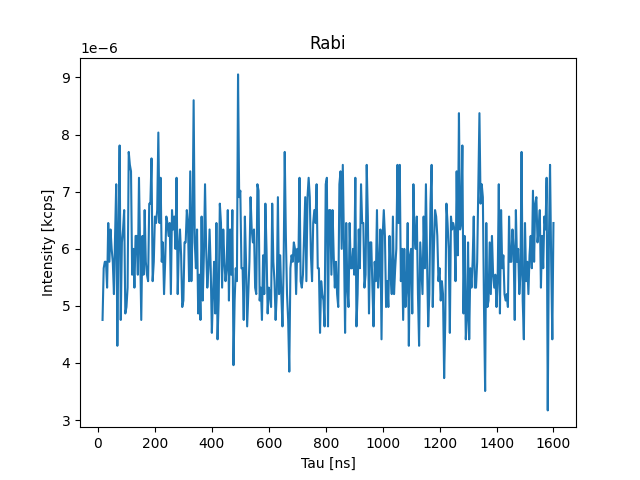
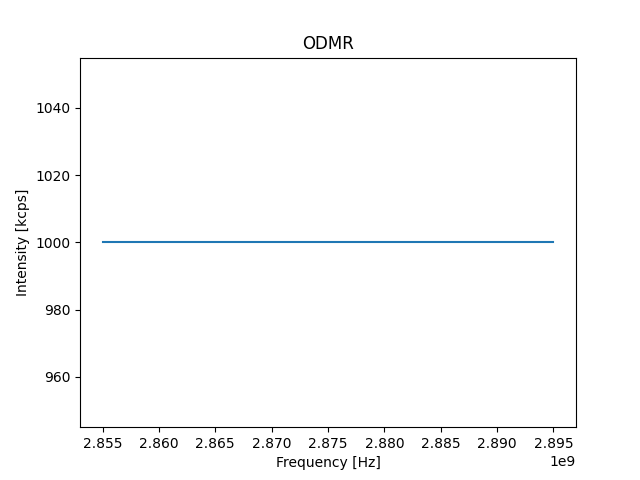
Small changes on the config and qm code

diff --git a/src/qudi/hardware/OPX/05_cw_odmr.py b/src/qudi/hardware/OPX/05_cw_odmr.py
@@ -27,7 +27,7 @@ from configuration import *
 ###################
 
 # Frequency vector
-f_vec = np.arange(80 * u.MHz, 130 * u.MHz, 1 * u.MHz)
+f_vec = np.arange(80 * u.MHz, 140 * u.MHz, 1 * u.MHz)
 n_avg = 200_000_000  # number of averages
 readout_len = long_meas_len_1  # Readout duration for this experiment
 
@@ -49,39 +49,48 @@ with program() as cw_odmr:
             # Play the mw pulse...
             play("cw" * amp(1), "NV", duration=readout_len * u.ns)
             # ... and the laser pulse simultaneously (the laser pulse is delayed by 'laser_delay_1')
-            play("laser_ON", "AOM_green", duration=readout_len * u.ns)
-            wait(1_000 * u.ns, "SPCM1")  # so readout don't catch the first part of spin reinitialization
+            play("laser_ON", "Laser_520", duration=readout_len * u.ns)
+            wait(
+                1_000 * u.ns, "SPCM1"
+            )  # so readout don't catch the first part of spin reinitialization
             # Measure and detect the photons on SPCM1
-            measure("long_readout", "SPCM1", None, time_tagging.analog(times, readout_len, counts))
+            measure(
+                "long_readout",
+                "SPCM1",
+                None,
+                time_tagging.analog(times, readout_len, counts),
+            )
 
             save(counts, counts_st)  # save counts on stream
 
             # Wait and align all elements before measuring the dark events
             wait(wait_between_runs * u.ns)
-            #align()  # align all elements
+            # align()  # align all elements
             # Play the mw pulse with zero amplitude...
-            #play("cw" * amp(0), "NV", duration=readout_len * u.ns)
+            # play("cw" * amp(0), "NV", duration=readout_len * u.ns)
             # ... and the laser pulse simultaneously (the laser pulse is delayed by 'laser_delay_1')
-            #play("laser_ON", "AOM_green", duration=readout_len * u.ns)
-            #wait(1_000 * u.ns, "SPCM1")  # so readout don't catch the first part of spin reinitialization
-            #measure("long_readout", "SPCM1", None, time_tagging.analog(times, readout_len, counts))
+            # play("laser_ON", "AOM_green", duration=readout_len * u.ns)
+            # wait(1_000 * u.ns, "SPCM1")  # so readout don't catch the first part of spin reinitialization
+            # measure("long_readout", "SPCM1", None, time_tagging.analog(times, readout_len, counts))
 
-            #save(counts, counts_dark_st)  # save counts on stream
+            # save(counts, counts_dark_st)  # save counts on stream
 
-            #wait(wait_between_runs * u.ns)
+            # wait(wait_between_runs * u.ns)
 
             save(n, n_st)  # save number of iteration inside for_loop
 
     with stream_processing():
         # Cast the data into a 1D vector, average the 1D vectors together and store the results on the OPX processor
         counts_st.buffer(len(f_vec)).average().save("counts")
-        #counts_dark_st.buffer(len(f_vec)).average().save("counts_dark")
+        # counts_dark_st.buffer(len(f_vec)).average().save("counts_dark")
         n_st.save("iteration")
 
 #####################################
 #  Open Communication with the QOP  #
 #####################################
-qmm = QuantumMachinesManager(host=qop_ip, cluster_name=cluster_name, octave=octave_config)
+qmm = QuantumMachinesManager(
+    host=qop_ip, cluster_name=cluster_name, octave=octave_config
+)
 
 #######################
 # Simulate or execute #
@@ -99,7 +108,7 @@ else:
     # Send the QUA program to the OPX, which compiles and executes it
     job = qm.execute(cw_odmr)
     # Get results from QUA program
-    #results = fetching_tool(job, data_list=["counts", "counts_dark", "iteration"], mode="live")
+    # results = fetching_tool(job, data_list=["counts", "counts_dark", "iteration"], mode="live")
     results = fetching_tool(job, data_list=["counts", "iteration"], mode="live")
     # Live plotting
     fig = plt.figure()
@@ -107,24 +116,27 @@ else:
 
     while results.is_processing():
         # Fetch results
-        #counts, counts_dark, iteration = results.fetch_all()
+        # counts, counts_dark, iteration = results.fetch_all()
         counts, iteration = results.fetch_all()
         # Progress bar
         progress_counter(iteration, n_avg, start_time=results.get_start_time())
         # Plot data
         plt.cla()
-        plt.plot((NV_LO_freq * 0 + f_vec) / u.MHz, counts / 1000 / (readout_len * 1e-9), label="photon counts")
-        #plt.plot((NV_LO_freq * 0 + f_vec) / u.MHz, counts_dark / 1000 / (readout_len * 1e-9), label="dark counts")
+        plt.plot(
+            (NV_LO_freq * 0 + f_vec) / u.MHz,
+            counts / 1000 / (readout_len * 1e-9),
+            label="photon counts",
+        )
+        # plt.plot((NV_LO_freq * 0 + f_vec) / u.MHz, counts_dark / 1000 / (readout_len * 1e-9), label="dark counts")
         plt.xlabel("MW frequency [MHz]")
         plt.ylabel("Intensity [kcps]")
         plt.title("ODMR")
         plt.legend()
         plt.pause(0.1)
-        
+
     plt.show()
-    f = open("C:\\Data\\2024\\06\\odmr.txt", "w")
+    f = open("C:\\Data\\2024\\08\\odmr.txt", "w")
     for i in range(len(counts)):
-        #f.write(str(counts[i])+ '\t' + str(counts_dark[i])+ '\n')
-        f.write(str(counts[i] / 1000 / (readout_len * 1e-9)) + '\n')
+        # f.write(str(counts[i])+ '\t' + str(counts_dark[i])+ '\n')
+        f.write(str(counts[i] / 1000 / (readout_len * 1e-9)) + "\n")
     f.close()
-    

diff --git a/src/qudi/hardware/OPX/old_files/configuration.py b/src/qudi/hardware/OPX/old_files/configuration.py
@@ -5,6 +5,7 @@ import numpy as np
 # AUXILIARY FUNCTIONS #
 #######################
 
+
 # IQ imbalance matrix
 def IQ_imbalance(g, phi):
     """
@@ -20,11 +21,13 @@ def IQ_imbalance(g, phi):
     N = 1 / ((1 - g**2) * (2 * c**2 - 1))
     return [float(N * x) for x in [(1 - g) * c, (1 + g) * s, (1 - g) * s, (1 + g) * c]]
 
+
 def gauss(amplitude, mu, sigma, length):
     t = np.linspace(-length / 2, length / 2, length)
-    gauss_wave = amplitude * np.exp(-((t - mu) ** 2) / (2 * sigma ** 2))
+    gauss_wave = amplitude * np.exp(-((t - mu) ** 2) / (2 * sigma**2))
     substracted_gauss_wave = gauss_wave - gauss_wave[-1]
     return [float(x) for x in substracted_gauss_wave]
+
 
 #############
 # VARIABLES #
@@ -34,8 +37,8 @@ qop_ip = "192.168.1.6"
 host = 80
 
 # Frequencies
-#NV_IF1_freq = -67e6  # in units of Hz
-#NV_IF2_freq = 350e6  # in units of Hz
+# NV_IF1_freq = -67e6  # in units of Hz
+# NV_IF2_freq = 350e6  # in units of Hz
 NV_IF1_freq = 3e6
 NV_IF2_freq = 0e6
 NV_LO_freq = 2.870e9  # in units of Hz
@@ -83,15 +86,22 @@ config = {
                 2: {},  # AOM/green Laser
                 3: {},  # AOM/orange Laser
                 4: {},  # AOM/red Laser
+                5: {},  #
+                6: {},  # turn green on
             },
             "analog_inputs": {
-                1: {"offset": 0, 'gain_db': -3},  # SPCM
+                1: {"offset": 0, "gain_db": -3},  # SPCM
             },
         }
     },
     "elements": {
         "NV1": {
-            "mixInputs": {"I": ("con1", 1), "Q": ("con1", 2), "lo_frequency": NV_LO_freq, "mixer": "mixer_NV1"},
+            "mixInputs": {
+                "I": ("con1", 1),
+                "Q": ("con1", 2),
+                "lo_frequency": NV_LO_freq,
+                "mixer": "mixer_NV1",
+            },
             "intermediate_frequency": NV_IF1_freq,
             "operations": {
                 "cw": "const_pulse",
@@ -100,7 +110,12 @@ config = {
             },
         },
         "NV2": {
-            "mixInputs": {"I": ("con1", 3), "Q": ("con1", 4), "lo_frequency": NV_LO_freq, "mixer": "mixer_NV2"},
+            "mixInputs": {
+                "I": ("con1", 3),
+                "Q": ("con1", 4),
+                "lo_frequency": NV_LO_freq,
+                "mixer": "mixer_NV2",
+            },
             "intermediate_frequency": NV_IF2_freq,
             "operations": {
                 "cw": "const_pulse",
@@ -111,7 +126,7 @@ config = {
         "AOM_green": {
             "digitalInputs": {
                 "marker": {
-                    "port": ("con1", 2),
+                    "port": ("con1", 6),
                     "delay": green_laser_delay,
                     "buffer": 0,
                 },
@@ -226,10 +241,18 @@ config = {
     },
     "mixers": {
         "mixer_NV1": [
-            {"intermediate_frequency": NV_IF1_freq, "lo_frequency": NV_LO_freq, "correction": IQ_imbalance(0.0, 0.0)},
+            {
+                "intermediate_frequency": NV_IF1_freq,
+                "lo_frequency": NV_LO_freq,
+                "correction": IQ_imbalance(0.0, 0.0),
+            },
         ],
         "mixer_NV2": [
-            {"intermediate_frequency": NV_IF2_freq, "lo_frequency": NV_LO_freq, "correction": IQ_imbalance(0.0, 0.0)},
+            {
+                "intermediate_frequency": NV_IF2_freq,
+                "lo_frequency": NV_LO_freq,
+                "correction": IQ_imbalance(0.0, 0.0),
+            },
         ],
     },
 }

diff --git a/src/qudi/hardware/OPX/old_files/cw_odmr.py b/src/qudi/hardware/OPX/old_files/cw_odmr.py
@@ -1,10 +1,12 @@
 """
 Counts photons while sweeping the frequency of the applied MW.
 """
+
 from qm.QuantumMachinesManager import QuantumMachinesManager
 from qm.qua import *
 import matplotlib
-matplotlib.use('TkAgg')
+
+matplotlib.use("TkAgg")
 from qm import SimulationConfig
 import matplotlib.pyplot as plt
 from configuration import *
@@ -13,11 +15,11 @@ from configuration import *
 # The QUA program #
 ###################
 
-f_min = -50e6  # start of freq sweep
-f_max = 50e6  # end of freq sweep
-df = 1e6  # freq step
+f_min = -15e6  # start of freq sweep
+f_max = 25e6  # end of freq sweep
+df = 0.1e6  # freq step
 f_vec = np.arange(f_min, f_max + 0.1, df)  # f_max + 0.1 so that f_max is included
-n_avg = 10e3  # number of averages
+n_avg = 30e3  # number of averages
 
 with program() as cw_odmr:
     times = declare(int, size=100)
@@ -28,16 +30,23 @@ with program() as cw_odmr:
     n_st = declare_stream()  # stream for number of iterations
 
     with for_(n, 0, n < n_avg, n + 1):
-        with for_(f, f_min, f <= f_max, f + df):  # Notice it's <= to include f_max (This is only for integers!)
+        with for_(
+            f, f_min, f <= f_max, f + df
+        ):  # Notice it's <= to include f_max (This is only for integers!)
             update_frequency("NV1", f)  # update frequency
             align()  # align all elements
 
             play("cw", "NV1", duration=int(long_meas_len // 4))  # play microwave pulse
             play("laser_ON", "AOM_green", duration=int(long_meas_len // 4))
-            measure("long_readout", "SPCM", None, time_tagging.analog(times, long_meas_len, counts)) # CW MW + LASER
-            #measure("long_readout", "SPCM", None, time_tagging.analog(times, long_meas_len, counts)) # LASER
-            
-            #PLOT here (MW+LASER)/(LASER)
+            measure(
+                "long_readout",
+                "SPCM",
+                None,
+                time_tagging.analog(times, long_meas_len, counts),
+            )  # CW MW + LASER
+            # measure("long_readout", "SPCM", None, time_tagging.analog(times, long_meas_len, counts)) # LASER
+
+            # PLOT here (MW+LASER)/(LASER)
 
             save(counts, counts_st)  # save counts on stream
             save(n, n_st)  # save number of iteration inside for_loop
@@ -56,12 +65,12 @@ simulate = False
 
 if simulate:
     simulation_duration = 5000
-    job = qm.simulate(cw_odmr,SimulationConfig(simulation_duration))
+    job = qm.simulate(cw_odmr, SimulationConfig(simulation_duration))
     job.get_simulated_samples().con1.plot()
 else:
     job = qm.execute(cw_odmr)  # execute QUA program
 
-#job = qm.execute(cw_odmr)  # execute QUA program
+# job = qm.execute(cw_odmr)  # execute QUA program
 
 res_handles = job.result_handles  # get access to handles
 counts_handle = res_handles.get("counts")
@@ -102,5 +111,10 @@ while b_cont or b_last:
     b_cont = res_handles.is_processing()
     b_last = not (b_cont or b_last)
 
-f.savefig('test.png')
+f.savefig("test.png")
+f = open("C:\\Data\\2024\\08\\odmr.txt", "w")
+for i in range(len(counts)):
+    # f.write(str(counts[i])+ '\t' + str(counts_dark[i])+ '\n')
+    f.write(str(counts[i] / 1000 / (long_meas_len * 1e-9)) + "\n")
+f.close()
 print("I'm done")

diff --git a/src/qudi/hardware/OPX/configuration.py b/src/qudi/hardware/OPX/configuration.py
@@ -136,6 +136,7 @@ config = {
             "digital_outputs": {
                 1: {},  # indicator
                 6: {},  # Laser 520 nm (Green)
+                4: {},  # indicator
                 7: {},  # Laser 450 nm (Blue)
                 8: {},  # AOM Laser 520 nm (Green)
                 9: {},  # AOM Laser 575 nm (Yellow)
@@ -143,6 +144,7 @@ config = {
             },
             "analog_inputs": {
                 1: {"offset": 0, "gain_db": -3},  # SPCM1
+                2: {"offset": 0, "gain_db": -3},  # SPCM2
             },
         }
     },
@@ -189,7 +191,7 @@ config = {
                 "port": ("con1", 7),
             },
             "operations": {
-                "power": "power_AOM",
+                "power": "AOM_power",
             },
         },
         "Laser_520": {
@@ -221,7 +223,7 @@ config = {
                 "port": ("con1", 8),
             },
             "operations": {
-                "power": "power_AOM",
+                "power": "AOM_power",
             },
         },
         "AOM_575": {
@@ -241,7 +243,7 @@ config = {
                 "port": ("con1", 9),
             },
             "operations": {
-                "power": "power_AOM",
+                "power": "AOM_power",
             },
         },
         "AOM_620": {
@@ -261,7 +263,7 @@ config = {
                 "port": ("con1", 10),
             },
             "operations": {
-                "power": "power_AOM",
+                "power": "AOM_power",
             },
         },
         "LaserScanner_red": {

diff --git a/src/qudi/hardware/OPX/03_counter.py b/src/qudi/hardware/OPX/03_counter.py
@@ -35,9 +35,14 @@ with program() as counter:
         # Loop over the chunks to measure for the total integration time
         with for_(n, 0, n < n_count, n + 1):
             # Play the laser pulse...
-            play("laser_ON", "AOM_green", duration=single_integration_time_cycles)
+            # play("laser_ON", "AOM_green", duration=single_integration_time_cycles)
             # ... while measuring the events from the SPCM
-            measure("readout", "SPCM1", None, time_tagging.analog(times, single_integration_time_ns, counts))
+            measure(
+                "readout",
+                "SPCM1",
+                None,
+                time_tagging.analog(times, single_integration_time_ns, counts),
+            )
             # Increment the received counts
             assign(total_counts, total_counts + counts)
         # Save the counts
@@ -50,7 +55,9 @@ with program() as counter:
 #####################################
 #  Open Communication with the QOP  #
 #####################################
-qmm = QuantumMachinesManager(host=qop_ip, cluster_name=cluster_name, octave=octave_config)
+qmm = QuantumMachinesManager(
+    host=qop_ip, cluster_name=cluster_name, octave=octave_config
+)
 
 #######################
 # Simulate or execute #
